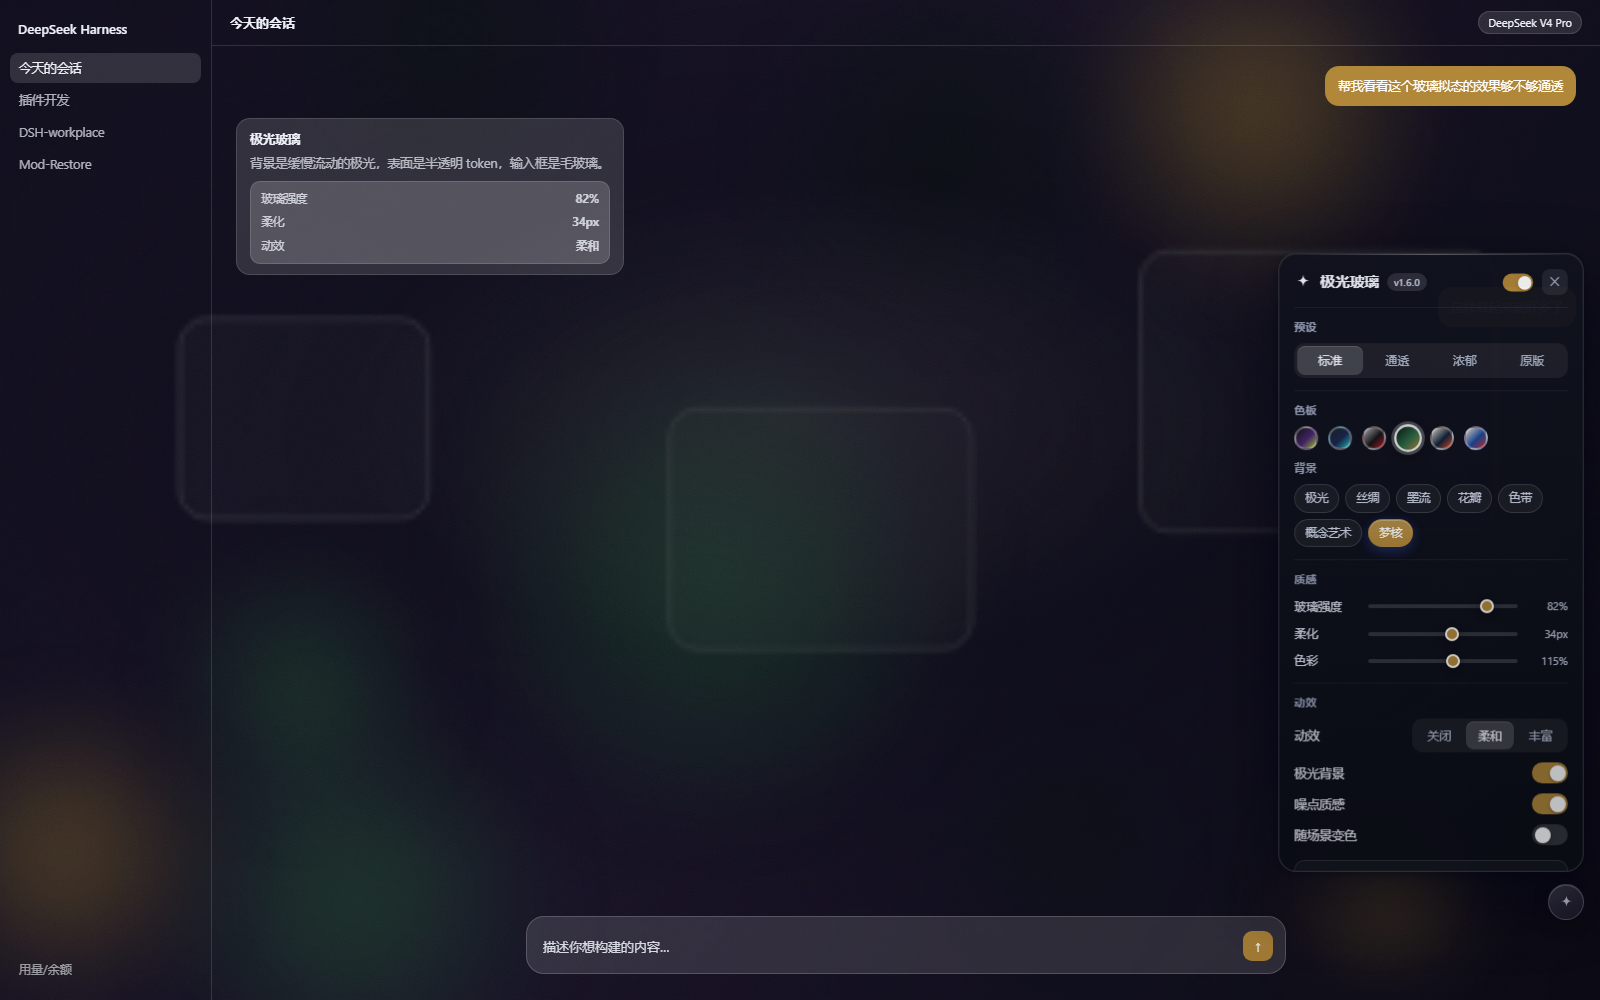
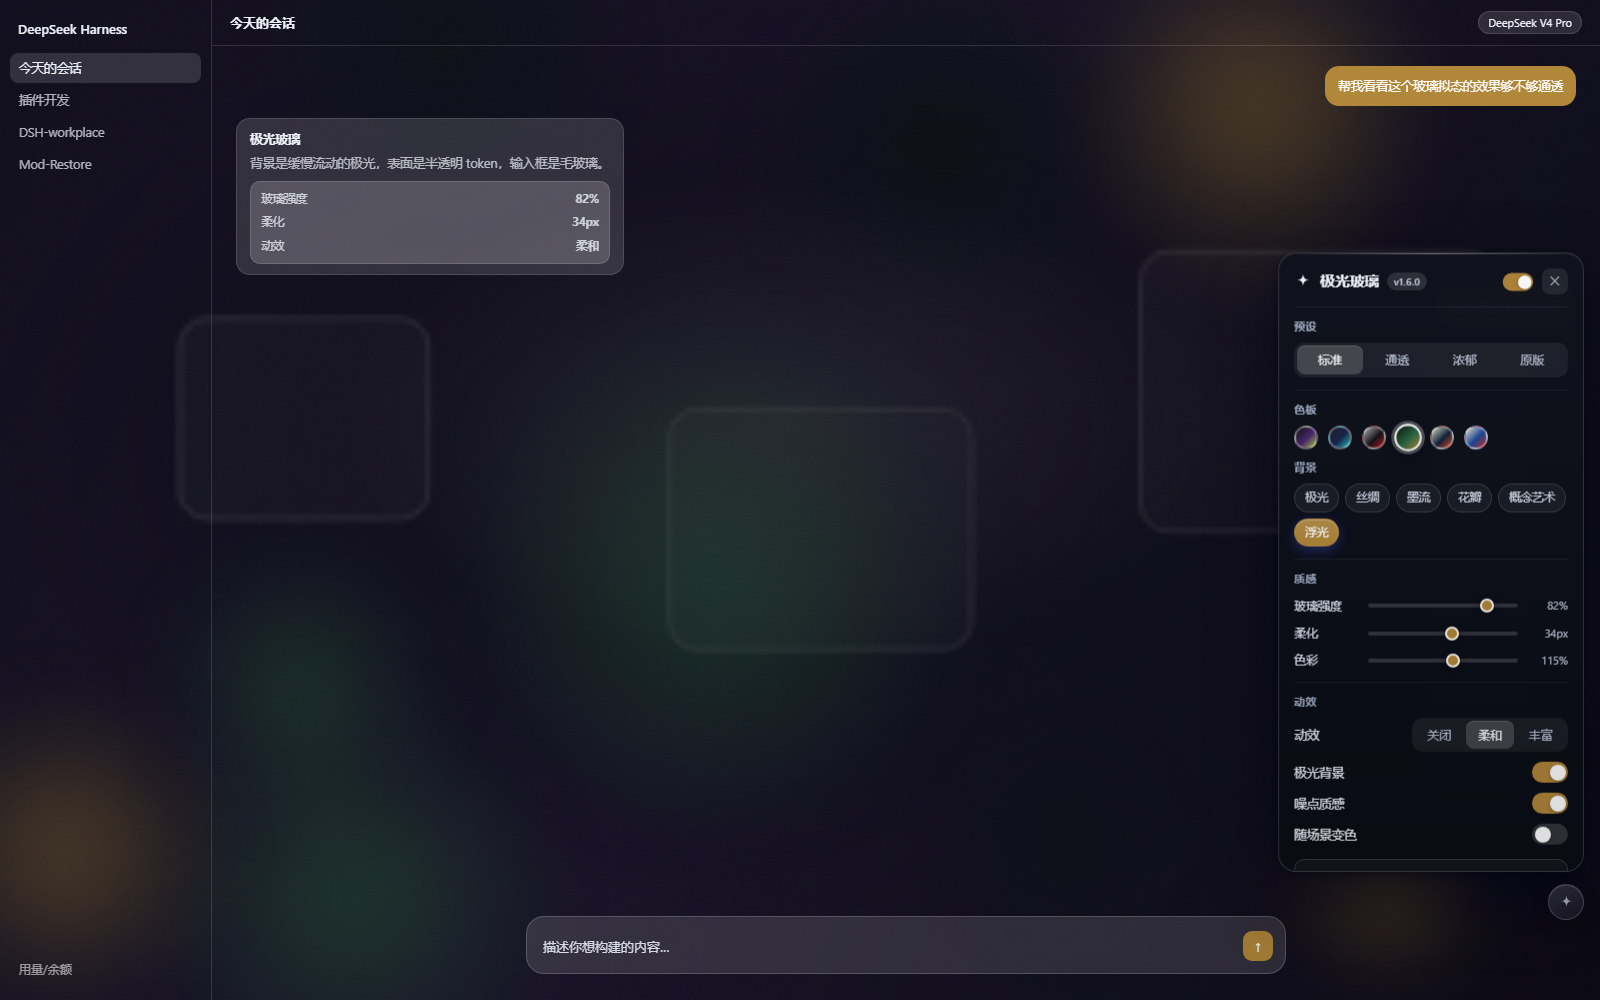
feat: v1.18.0 - petal anchored bottom-right, drop bands, rename dream to motes

diff --git a/client.js b/client.js
@@ -92,9 +92,8 @@ window.__ModuleLoader__.load({
         'bg.silk': '丝绸',
         'bg.ink': '墨流',
         'bg.petal': '花瓣',
-        'bg.bands': '色带',
         'bg.concept': '概念艺术',
-        'bg.dream': '梦核',
+        'bg.dream': '浮光',
         'preset.default': '标准',
         'preset.clear': '通透',
         'preset.rich': '浓郁',
@@ -126,9 +125,8 @@ window.__ModuleLoader__.load({
         'bg.silk': 'Silk',
         'bg.ink': 'Ink',
         'bg.petal': 'Petal',
-        'bg.bands': 'Bands',
         'bg.concept': 'Concept',
-        'bg.dream': 'Dream',
+        'bg.dream': 'Motes',
         'preset.default': 'Standard',
         'preset.clear': 'Clear',
         'preset.rich': 'Rich',
@@ -172,10 +170,9 @@ window.__ModuleLoader__.load({
         'bg.aurora': '四团光晕在四角缓慢漂移、旋转，最轻，纯 CSS。',
         'bg.silk': '七条缎带横向流动，边缘磨砂、带一道高光，像被风吹起的绸子。鼠标推开它，点一下荡开涟漪。',
         'bg.ink': '墨团缓慢下沉、扩散、互相晕开，鼠标经过会把墨挤开，点一下荡开涟漪。',
-        'bg.petal': '三层半透明褶皱花瓣缓慢绽放，鼠标就是花心，花瓣会朝你倾一点。',
-        'bg.bands': '像素化的横向色带缓慢起伏，鼠标像一枚透镜把色带顶起来。',
+        'bg.petal': '三层半透明褶皱花瓣缓慢绽放，固定在右下角，不跟随鼠标。',
         'bg.concept': '三层山脊 + 雾气 + 一束天光，鼠标就是光源，光束和雾会跟着走。',
-        'bg.dream': '粉紫渐变、发光球体、悬浮的空画框，光球会慢慢向你靠拢。',
+        'bg.dream': '粉紫渐变、发光球体、悬浮的空画框；光球会向你靠拢，靠近时变亮。',
         glass: '表面有多透。100% 几乎全靠背景撑，0% 等于回到原生外观。',
         blur: '极光边缘的柔化程度，越大越朦胧。松手才生效，所以拖动不会卡。',
         saturation: '极光的鲜艳程度。往右更艳，往左偏灰。',
@@ -192,10 +189,9 @@ window.__ModuleLoader__.load({
         'bg.aurora': 'Four soft glows drifting and rotating at the corners — the lightest, pure CSS.',
         'bg.silk': 'Seven satin bands flowing sideways; the pointer pushes the sheet, a click ripples it.',
         'bg.ink': 'Ink clouds sinking and bleeding into each other; the pointer shoves them, a click ripples.',
-        'bg.petal': 'Three layers of translucent ruffled petals opening slowly; the pointer is the flower centre and the petals lean toward it.',
-        'bg.bands': 'Pixel-quantised horizontal colour bands; the pointer acts as a lens that lifts them.',
+        'bg.petal': 'Three layers of translucent ruffled petals opening slowly, anchored bottom-right and not following the pointer.',
         'bg.concept': 'Concept art: three ridges, drifting fog and a shaft of light; the pointer is the light source.',
-        'bg.dream': 'Dreamcore: pastel gradient, glowing orbs and empty floating frames; orbs drift toward the pointer.',
+        'bg.dream': 'Pastel gradient, glowing orbs and empty floating frames; orbs drift toward the pointer and brighten.',
         glass: 'How transparent the surfaces are. 100% leans on the background, 0% is the stock look.',
         blur: 'Softness of the aurora edge. Applied on release, so dragging stays smooth.',
         saturation: 'Colour intensity. Right is richer, left is greyer.',
@@ -1009,7 +1005,7 @@ button:active,[role="button"]:active,[role="menuitem"]:active,
         }, t('seg.motion.' + lv)),
       );
 
-      const bgChips = ['aurora', 'silk', 'ink', 'petal', 'bands', 'concept', 'dream'].map((mode) =>
+      const bgChips = ['aurora', 'silk', 'ink', 'petal', 'concept', 'dream'].map((mode) =>
         el('button', {
           class: 'ag-chip ag-chip-sm',
           type: 'button',
@@ -1324,7 +1320,6 @@ button:active,[role="button"]:active,[role="menuitem"]:active,
       if (mode === 'silk') drawWaves(ctx, W, H, dark);
       else if (mode === 'ink') drawPlumes(ctx, W, H, dark);
       else if (mode === 'petal') drawPetal(ctx, W, H, dark);
-      else if (mode === 'bands') drawBands(ctx, W, H, dark);
       else if (mode === 'concept') drawConcept(ctx, W, H, dark);
       else if (mode === 'dream') drawDream(ctx, W, H, dark);
 
@@ -1775,9 +1770,10 @@ button:active,[role="button"]:active,[role="menuitem"]:active,
 
       const cols = paletteOf(state.palette).rgb;
       const t = silkT * 4;
-      const cx = silkPointer.active ? silkPointer.x : W * 0.5;
-      const cy = silkPointer.active ? silkPointer.y : H * 0.52;
-      const lean = silkPointer.active ? (silkPointer.x / W - 0.5) * 0.5 : 0;
+      // anchored to the bottom-right corner, like a flower growing into frame —
+      // it deliberately does NOT follow the pointer
+      const cx = W * 0.88;
+      const cy = H * 1.08;
 
       ctx.filter = 'blur(0.6px)';
       // petals read best when the body is the lightest colour of the card and the
@@ -1788,23 +1784,23 @@ button:active,[role="button"]:active,[role="menuitem"]:active,
       const base = cols[order[1]];
       const accent = cols[order[2]];
       const layers = [
-        { n: 9, len: 0.46, wid: 0.15, tone: 0, rot: 0.0, alpha: 0.5 },
-        { n: 7, len: 0.34, wid: 0.115, tone: 1, rot: 0.42, alpha: 0.55 },
-        { n: 5, len: 0.23, wid: 0.085, tone: 2, rot: 0.9, alpha: 0.6 },
+        { n: 9, len: 0.66, wid: 0.21, tone: 0, rot: 0.0 },
+        { n: 7, len: 0.48, wid: 0.16, tone: 1, rot: 0.42 },
+        { n: 5, len: 0.32, wid: 0.115, tone: 2, rot: 0.9 },
       ];
 
       for (let L = 0; L < layers.length; L += 1) {
         const lay = layers[L];
         const c = L === 2 ? accent : base;
         for (let i = 0; i < lay.n; i += 1) {
-          const a = (i / lay.n) * Math.PI * 2 + lay.rot + t * (0.12 + L * 0.05);
-          const breathe = 1 + 0.05 * Math.sin(t * 1.4 + i + L);
+          const a = (i / lay.n) * Math.PI * 2 + lay.rot + t * (0.1 + L * 0.04);
+          const breathe = 1 + 0.04 * Math.sin(t * 1.1 + i + L);
           const len = lay.len * W * breathe;
           const wid = lay.wid * W * breathe;
 
           ctx.save();
           ctx.translate(cx, cy);
-          ctx.rotate(a + lean * (L + 1) * 0.2);
+          ctx.rotate(a);
           petalPath(ctx, len, wid, 0.12, t + i * 0.8 + L);
           const g = ctx.createLinearGradient(0, 0, len, 0);
           const c2 = L === 0 ? accent : base;
@@ -1826,55 +1822,6 @@ button:active,[role="button"]:active,[role="menuitem"]:active,
       core.addColorStop(1, 'rgba(0,0,0,0)');
       ctx.fillStyle = core;
       ctx.fillRect(0, 0, W, H);
-    }
-
-    /* ---- bands: pixel-quantised colour stripes, reference 11 --------- */
-
-    function drawBands(ctx, W, H, dark) {
-      ctx.fillStyle = dark ? '#242b31' : '#e9edf2';
-      ctx.fillRect(0, 0, W, H);
-      ctx.filter = 'none';
-
-      const cols = paletteOf(state.palette).rgb;
-      const t = silkT * 2.6;
-      const STEP = Math.max(8, W / 26);
-      const px = silkPointer.active ? silkPointer.x : -9999;
-      const py = silkPointer.active ? silkPointer.y : -9999;
-
-      const bands = 6;
-      for (let b = 0; b < bands; b += 1) {
-        const c = cols[b % 3];
-        const baseY = H * (0.12 + b * 0.145);
-        const thick = H * (0.1 + 0.02 * Math.sin(b));
-        const ph = b * 1.3;
-
-        const top = (x) => {
-          let y = baseY + Math.sin(x * 0.006 + t + ph) * H * 0.06 + Math.sin(x * 0.017 - t * 0.6 + ph) * H * 0.02;
-          if (px > -9999) {
-            const dx = x - px;
-            const k = Math.exp(-(dx * dx) / 4200);
-            y += k * (py - y) * 0.22;
-          }
-          // quantise to the pixel grid — this is what makes it read as pixel art
-          return Math.round(y / STEP) * STEP;
-        };
-
-        ctx.beginPath();
-        ctx.moveTo(0, top(0));
-        for (let x = STEP; x <= W; x += STEP) ctx.lineTo(x, top(x));
-        for (let x = W; x >= 0; x -= STEP) ctx.lineTo(x, top(x) + Math.round(thick / STEP) * STEP);
-        ctx.closePath();
-        ctx.fillStyle = 'rgba(' + c[0] + ',' + c[1] + ',' + c[2] + ',' + (dark ? 0.62 : 0.5) + ')';
-        ctx.fill();
-
-        // a single bright row on the crest
-        ctx.beginPath();
-        ctx.moveTo(0, top(0));
-        for (let x = STEP; x <= W; x += STEP) ctx.lineTo(x, top(x));
-        ctx.strokeStyle = dark ? 'rgba(255,255,255,0.35)' : 'rgba(255,255,255,0.8)';
-        ctx.lineWidth = Math.max(2, STEP * 0.22);
-        ctx.stroke();
-      }
     }
 
     function now0() {

diff --git a/README.md b/README.md
@@ -3,16 +3,15 @@
 > **`dsh-aurora-glass`** — 为 DeepSeek Harness（DSH）打造的全局玻璃拟态 + 极光渐变主题插件。
 > A global glassmorphism + aurora theme plugin for DeepSeek Harness.
 
-![Version](https://img.shields.io/badge/version-1.17.0-8fb0ff) ![License](https://img.shields.io/badge/license-MIT-059669) ![Platform](https://img.shields.io/badge/platform-DeepSeek%20Harness-4763ff) ![Dependencies](https://img.shields.io/badge/dependencies-0-0b7bf1)
+![Version](https://img.shields.io/badge/version-1.18.0-8fb0ff) ![License](https://img.shields.io/badge/license-MIT-059669) ![Platform](https://img.shields.io/badge/platform-DeepSeek%20Harness-4763ff) ![Dependencies](https://img.shields.io/badge/dependencies-0-0b7bf1)
 
 <p align="center">
   <img src="docs/preview-dark.png" alt="极光 · 墨紫" width="780">
   <img src="docs/preview-silk.png" alt="丝绸 · 石墨青" width="780">
   <img src="docs/preview-ink.png" alt="墨流 · 海军橙" width="780">
   <img src="docs/preview-petal.png" alt="花瓣 · 银红" width="780">
-  <img src="docs/preview-bands.png" alt="色带 · 石墨青" width="780">
   <img src="docs/preview-concept.png" alt="概念艺术 · 纸本钴" width="780">
-  <img src="docs/preview-dream.png" alt="梦核 · 森林金" width="780">
+  <img src="docs/preview-dream.png" alt="浮光 · 森林金" width="780">
   <img src="docs/preview-light.png" alt="浅色主题" width="780">
   <img src="docs/preview-panel.png" alt="设置面板" width="300">
 </p>
@@ -69,17 +68,16 @@
 - **随场景变色**：会话标题算出一个稳定的色相偏移，再叠加按时段的正弦偏移——切会话、过时间，主色都会慢慢变
 - **输入脉动**：焦点在输入框时背景亮一档
 
-### 背景：七种，各有各的几何和交互
+### 背景：六种，各有各的几何和交互
 
 | 背景 | 语言 | 交互 |
 | --- | --- | --- |
 | **极光** | 四团径向渐变沿闭环漂移（纯 CSS） | 指针视差 + **跟随光标的一团柔光** + 打字脉动 + 切会话涌动 |
 | **丝绸** | 七条横向缎带，磨边 + 一道白色高光 | 指针推开布面，同时带一条**跟着你走的缎面反光**；点击荡开涟漪 |
 | **墨流** | 三瓣一串的墨团缓慢下沉 | 指针附近的墨会**变浓变大**（像在搅水），点击荡开涟漪，打字加速 |
-| **花瓣** | 三层半透明褶皱花瓣缓慢绽放 | **鼠标就是花心**，花瓣按层朝你倾 |
-| **色带** | 像素量化的横向色带 + 亮脊 | 鼠标像一枚**透镜**，把色带顶起来 |
+| **花瓣** | 三层半透明褶皱花瓣，**固定在右下角** | 只缓慢绽放，**不跟随鼠标** |
 | **概念艺术** | 三层山脊 + 漂移的雾 + 一束天光 | **鼠标就是光源**：光束、雾、山脊的**轮廓光**全部跟着走 |
-| **梦核** | 粉紫渐变、发光球体、悬浮的空画框 | 光球会向你靠拢，**靠近时变亮**；画框按景深视差 |
+| **浮光** | 粉紫渐变、发光球体、悬浮的空画框 | 光球会向你靠拢，**靠近时变亮**；画框按景深视差 |
 
 ### 色板：六组三色卡
 

diff --git a/CHANGELOG.md b/CHANGELOG.md
@@ -3,6 +3,20 @@
 本文件记录 dsh-aurora-glass 的重要变更，采用简易维护格式（Keep a Changelog 风格）。
 All notable changes to dsh-aurora-glass, in a simple maintenance format (Keep a Changelog style).
 
+## [1.18.0] - 2026-10-25
+
+### Changed
+
+- **花瓣不再跟随鼠标**：改成固定在**右下角**、像花从画面外长进来一样（中心 `W×0.88, H×1.08`），
+  同时把三层花瓣放大（外圈 0.46W → 0.66W），旋转和呼吸都放慢，只保留"缓慢绽放"。
+- **梦核改名「浮光」**：那套效果是粉紫渐变 + 发光球体 + 空画框，和"梦核"没关系，名字对不上。
+
+### Removed
+
+- **色带**背景（用户判定太难看）。相关的绘制函数、选项、文案一并删掉。
+
+现在：极光 / 丝绸 / 墨流 / 花瓣 / 概念艺术 / 浮光，六种。
+
 ## [1.17.0] - 2026-10-25
 
 ### Changed
